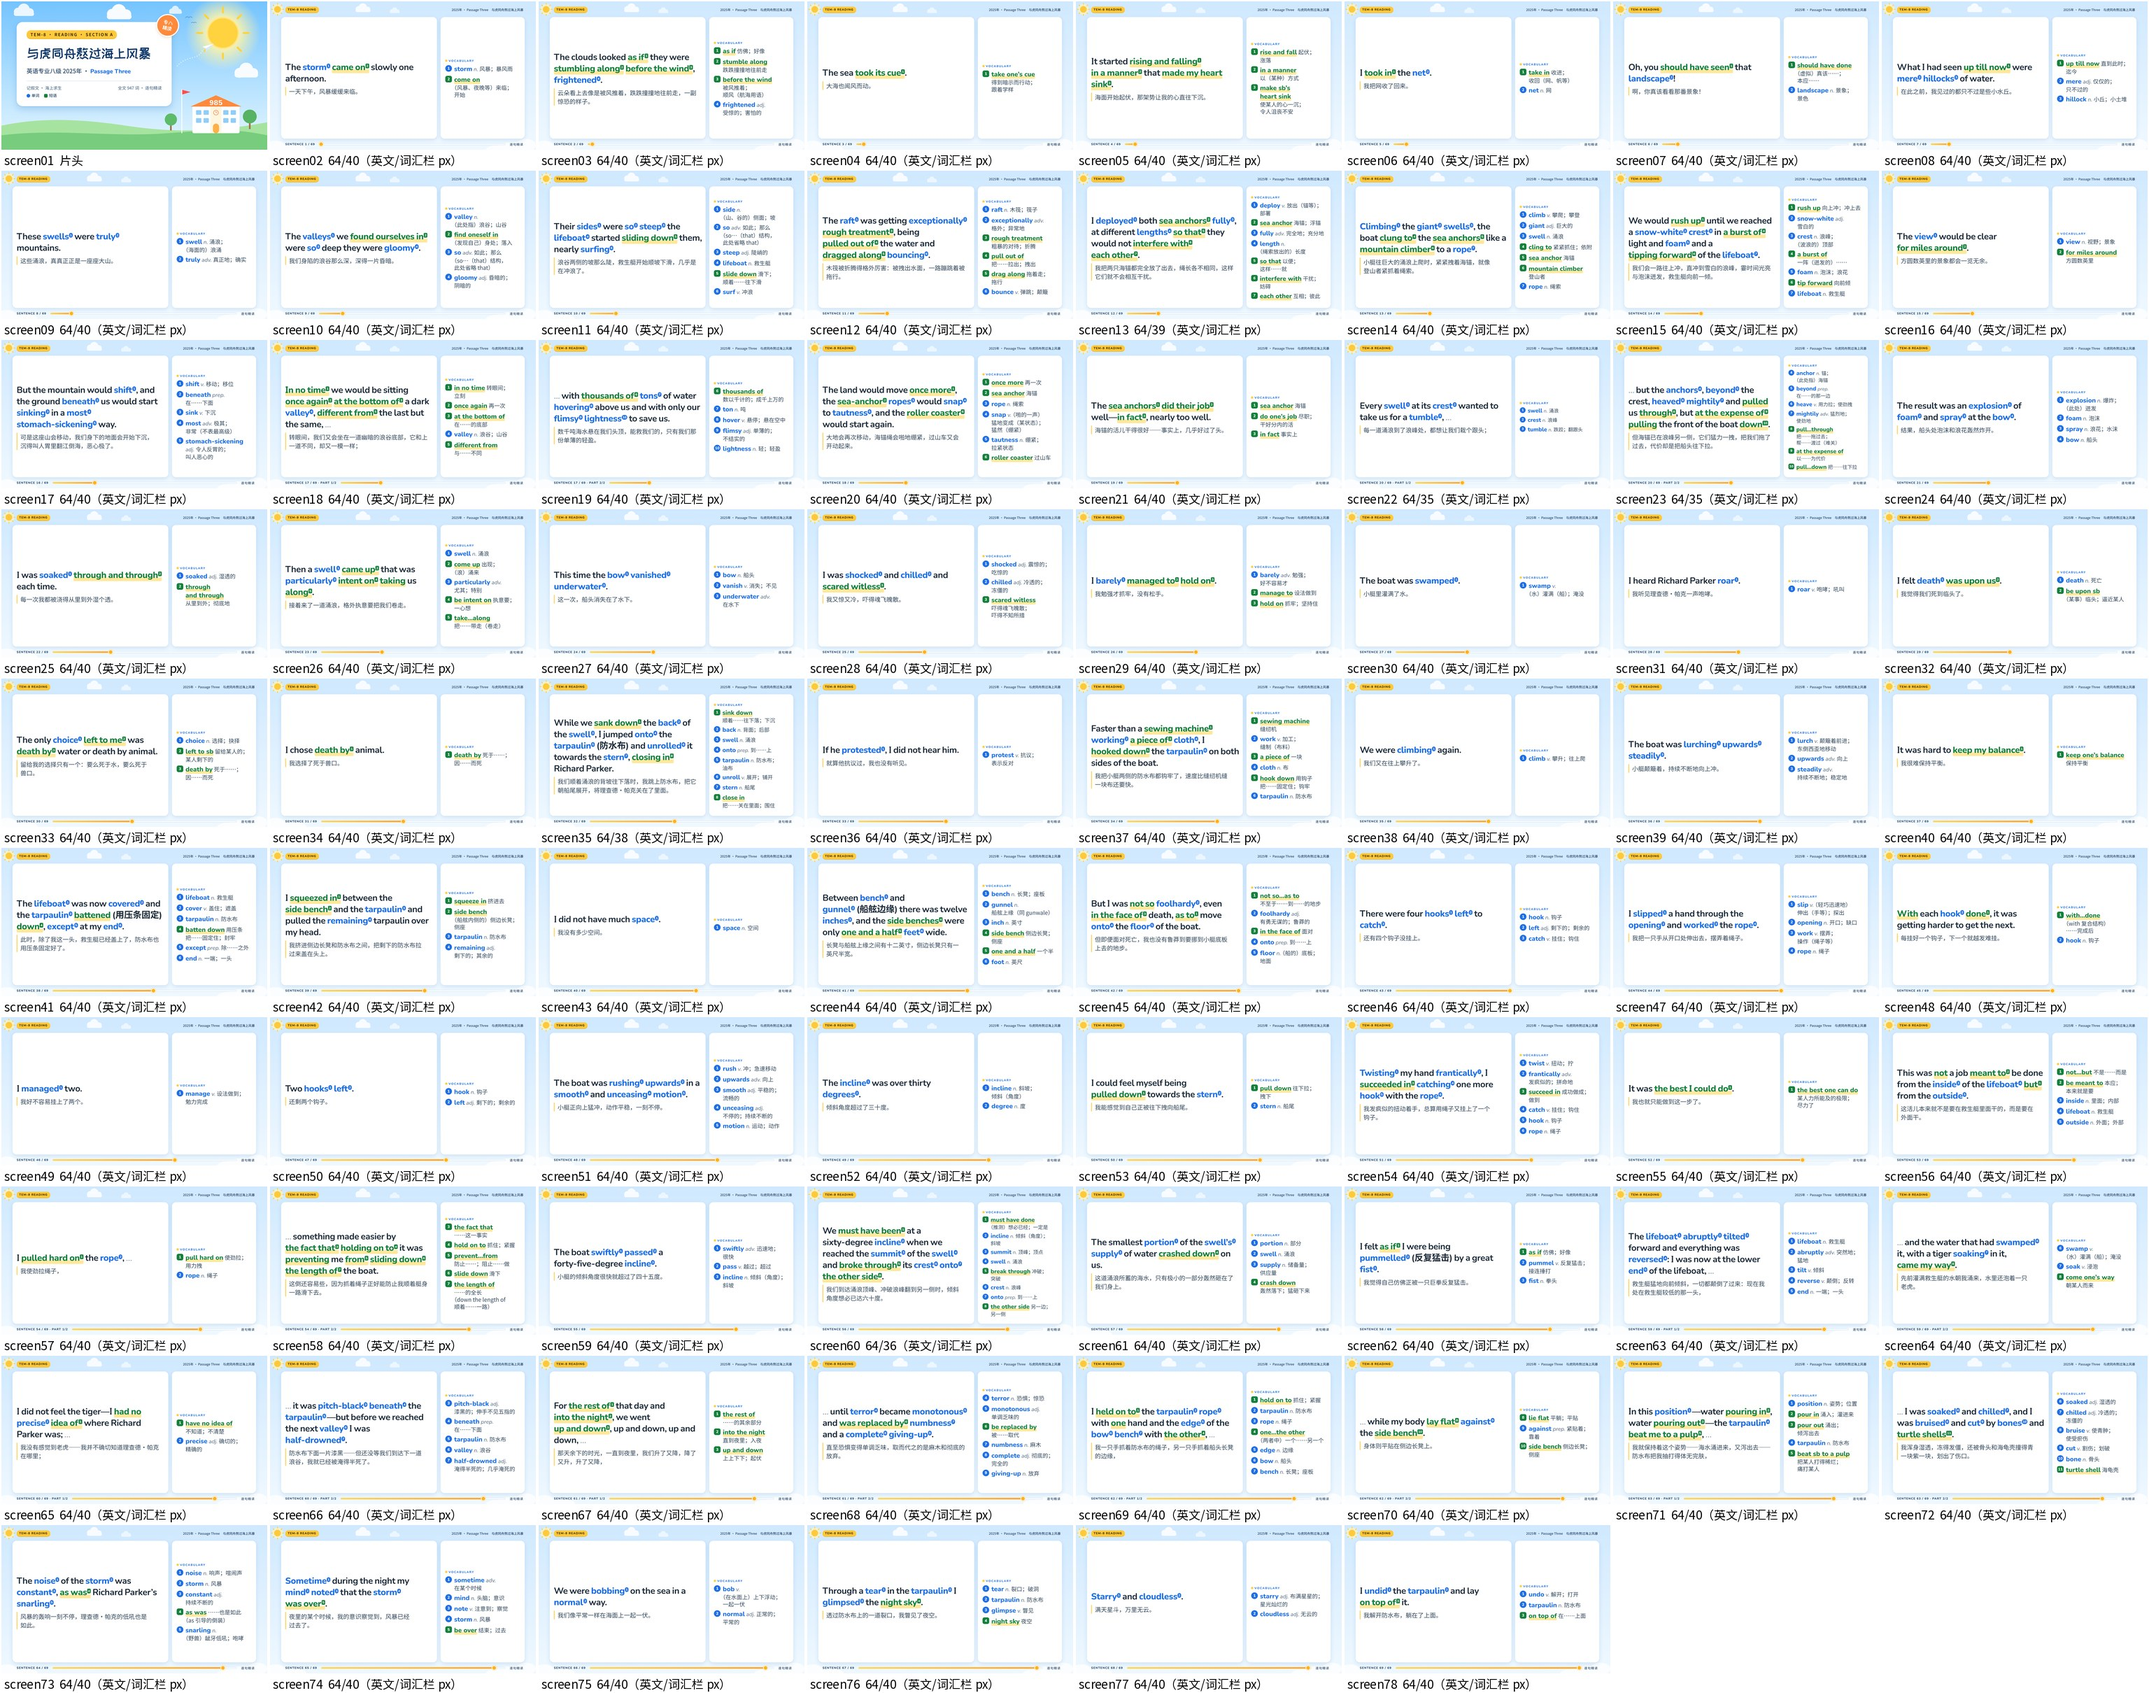
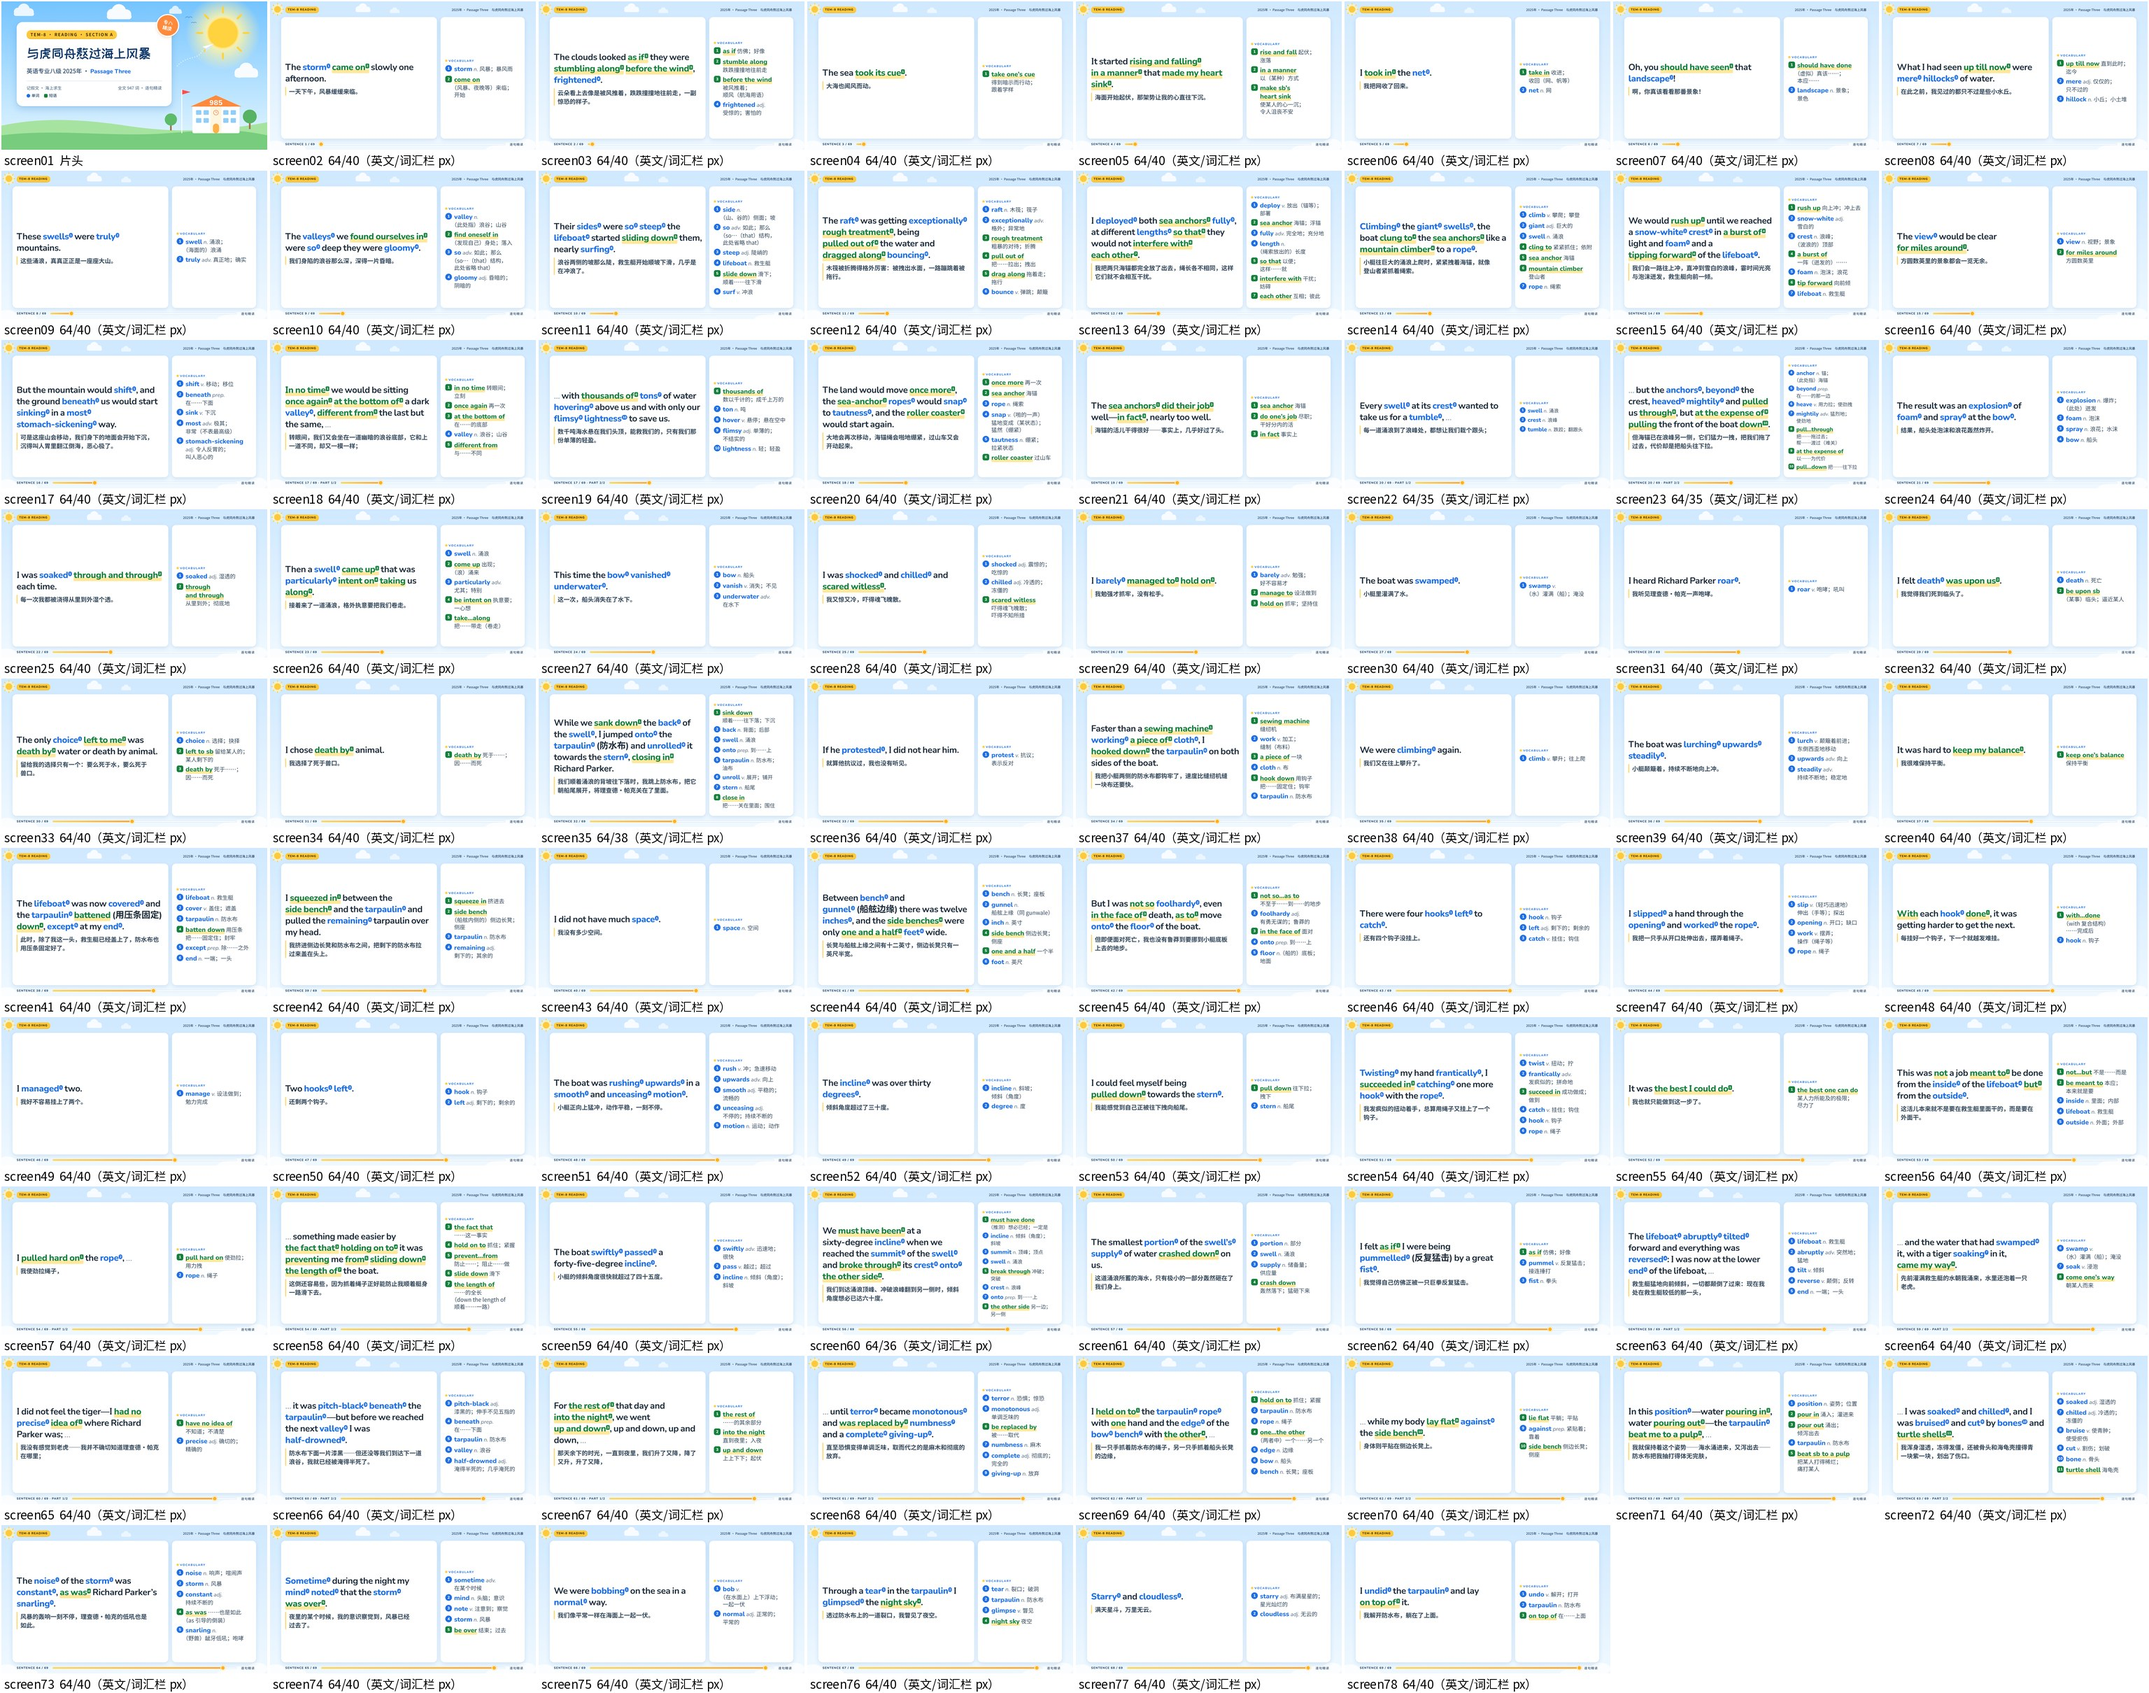
专八晴空校园：正文中文译文加粗（用户）；t03 截图重画全部通过并登记
Claude-Session: https://claude.ai/code/session_01Bo2nvX3EdvyJhDdDqVayNH

diff --git a/专八/tools/样式/1_晴空校园.css b/专八/tools/样式/1_晴空校园.css
@@ -2,7 +2,9 @@
 /* 封面：右上角圆形贴纸由中考的「背单词」改为专八的「专八 / 精读」（与书卷水墨封面的「专八精读」印章同义），两行居中 */
 .ttl::after{content:'专八\A精读';white-space:pre;line-height:1.08;text-align:center;font-size:38px}
 /* 用户 2026-10-17：校园版英文全部加粗（正文 700，生词、短语 800）；生词 晴空蓝 #1f6fe5（对白底 4.7:1），短语 深绿 #15803d（对白底 5.0:1；用户 2026-10-17：粉色看着不舒服，换成绿色，从 4 种绿里选深绿；此前依次试过葡萄紫、B 站粉 #fb7299、加深的 #ec4c85、鲜绿 #16a34a）。
-   原来：生词 #1052a8、短语 #b83c00（橙棕，用户不喜欢）。中文译文照旧不加粗（与教室黑板相同）。 */
+   原来：生词 #1052a8、短语 #b83c00（橙棕，用户不喜欢）。中文译文起初不加粗，用户随后要求也加粗（见下）。 */
 :root{--blue:#1f6fe5;--org:#15803d}
 .en{font-weight:700}.en .w,.en .ph{font-weight:800}
+/* 用户 2026-10-17：正文卡片里的中文译文也加粗（思源黑体 Bold；汉字等宽，换行不变，layoutcheck 逐屏核对） */
+.zh{font-weight:700}
 /* 黄色记号笔底纹：用户 2026-10-17 先说葡萄紫下面不要，改成 B 站粉后又说 B 站粉下面要——保留共用样式原有的黄色底纹 */
